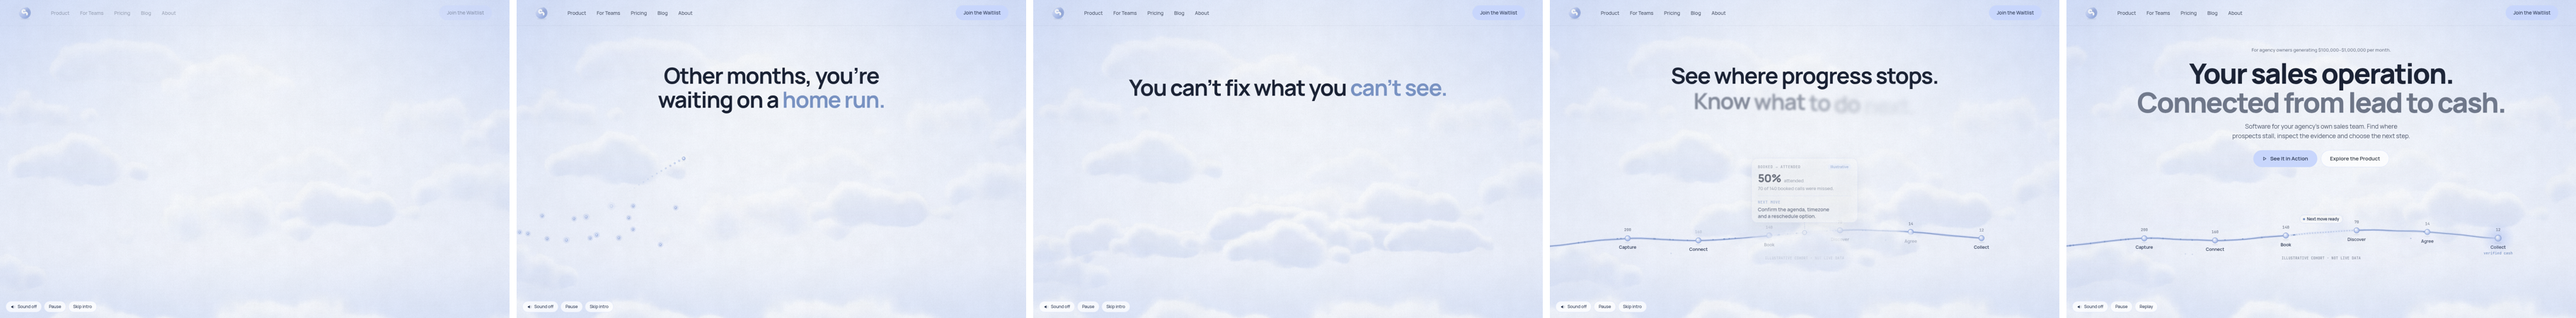
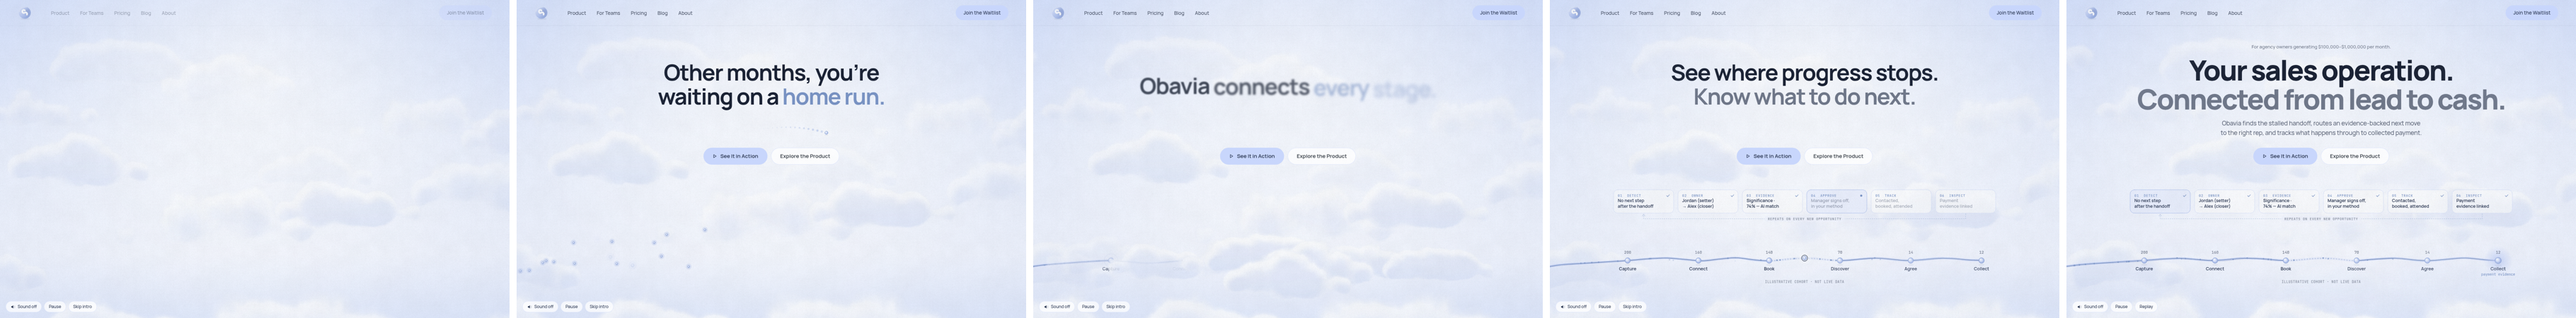
Rebuild hero around the recurring sales-execution loop
- Second half now shows the loop that justifies renewal: detect,
  owner, evidence (Significance 74% AI match), manager approval,
  track, inspect. One opportunity moves from the stalled handoff
  through to linked payment evidence; the loop repeats.
- CTAs visible from 1s: no video barrier before booking.
- Honest language: payment evidence is linked, not claimed as caused.
- Layout is a vertical grid (text, CTAs, loop, pipeline) that shrinks
  type to fit and grows/scrolls on very short screens.
- Story lines never overlap in time; stage labels and counts share rows.
- Overlap checker: zero collisions across the film at 5 viewport sizes.

Claude-Session: https://claude.ai/code/session_01WNCa4DicVSJvY6bbWM6F2z

diff --git a/obavia-co-hero/index.html b/obavia-co-hero/index.html
@@ -10,7 +10,8 @@
     --sans:'Manrope','Obavia Sans','Helvetica Neue',Arial,sans-serif;
     color-scheme:light;
   }
-  html,body{height:100%;margin:0;background:var(--sky);color:var(--navy);font-family:var(--sans);overflow:hidden}
+  html,body{margin:0;background:var(--sky);color:var(--navy);font-family:var(--sans)}
+  body{overflow-x:hidden}
   .stage{position:relative;height:100%;width:100%;overflow:hidden;background:var(--sky)}
   canvas#sky{position:absolute;inset:0;width:100%;height:100%;display:block}
   .sr{position:absolute;width:1px;height:1px;overflow:hidden;clip:rect(0 0 0 0);white-space:nowrap}
@@ -54,7 +55,7 @@
   <canvas id="sky" aria-hidden="true"></canvas>
 
   <h1 class="sr">Your sales operation. Connected from lead to cash.</h1>
-  <p class="sr">For agency owners generating $100,000 to $1,000,000 per month. Software for your agency's own sales team. Find where prospects stall, inspect the evidence and choose the next step.</p>
+  <p class="sr">For agency owners generating $100,000 to $1,000,000 per month. Obavia finds the stalled handoff, routes an evidence-backed next move to the right rep, and tracks what happens through to collected payment. The loop: detect, owner, evidence, approve, track, inspect. It repeats on every new opportunity.</p>
   <p class="sr" aria-live="polite" id="caption"></p>
 
   <nav id="nav" aria-label="Primary">
@@ -96,7 +97,7 @@
      t in [0, DUR]     the film
      t > DUR           the resolved hero, breathing
    ============================================================ */
-const DUR = 23;
+const DUR = 26.5;
 const FONT = "'Manrope','Obavia Sans','Helvetica Neue',Arial,sans-serif";
 const MONO = "'JetBrains Mono',ui-monospace,Menlo,monospace";
 const C = { ink:'#1C2436', navy:'#28344F', slate:'#737B8C', body:'#4B5468', deep:'#7D97C7', peri:'#C8D6FC', line:'#DCE4FA' };
@@ -188,6 +189,7 @@ const CL = (() => {
 })();
 
 /* ---------- layout ---------- */
+function REC(g,x,y,w,h,a){ if(window.__boxes && a>.35) window.__boxes.push({g,x,y,w,h}); }
 let W=0,H=0,DPR=1,L=null;
 function setLS(px){ if('letterSpacing' in ctx) ctx.letterSpacing = px.toFixed(2)+'px'; }
 function tokenize(str){
@@ -212,60 +214,106 @@ function block(str, o){
   const lh=o.fs*(o.lh||1.06);
   return Object.assign({lines, sp, lhpx:lh, h:lines.length*lh}, o);
 }
+const LOOP = [
+  ['Detect',  'No next step after the handoff'],
+  ['Owner',   'Jordan (setter) → Alex (closer)'],
+  ['Evidence','Significance · 74% — AI match'],
+  ['Approve', 'Manager signs off, in your method'],
+  ['Track',   'Contacted, booked, attended'],
+  ['Inspect', 'Payment evidence linked'],
+];
+const LT = k => 17.0 + k*.95;          // loop step k lights up
+const T_MOVE = LT(3)+.95, T_CASH = LT(5);
 function layout(){
-  const m = W<720;
+  const m = W<720, narrow = W<980;
   const navH = m?60:72;
-  const fs = clamp(Math.min(W*.062, H*.088), 34, 80);
   const maxW = Math.min(W-40, 1180);
-  const eyFs = m?11.5:13, subFs = clamp(W*.012,15,18.5);
-  const eyebrow = block('For agency owners generating $100,000–$1,000,000 per month.', {fs:eyFs, weight:500, ls:.1, maxW:Math.min(W-48,640), lh:1.5, color:C.slate, stagger:.012});
-  const h1a = block('Your sales operation.', {fs, weight:800, ls:-.045*fs, maxW, lh:1.04, color:C.ink, stagger:.07});
-  const h1b = block('Connected from lead to cash.', {fs, weight:800, ls:-.045*fs, maxW, lh:1.04, color:C.slate, stagger:.07});
-  const sub = block("Software for your agency’s own sales team. Find where prospects stall, inspect the evidence and choose the next step.", {fs:subFs, weight:400, ls:0, maxW:Math.min(W-48,560), lh:1.55, color:C.body, stagger:.018});
-  let y = navH + clamp(H*.07, 26, 90);
-  eyebrow.top=y; y+=eyebrow.h+(m?10:14);
-  h1a.top=y; y+=h1a.h; h1b.top=y; y+=h1b.h;
-  sub.top=y+(m?12:16); y=sub.top+sub.h;
-  const ctaY=y+22, ctaBottom=ctaY+48;
-  const pathY = Math.min(Math.max(ctaBottom+(m?120:130), H*.74), H-(m?104:100));
-  const storyCY = h1a.top + (h1a.h+h1b.h)/2;
+  const eyFs = m?11.5:13, subFs = clamp(W*.012,15,18.5), r0 = m?6:8;
+  let fs = clamp(Math.min(W*.062, H*.088), 30, 80), G;
+  for(let pass=0; pass<12; pass++){
+    const gap = clamp(H*.036, 16, 40);
+    const eyebrow = block('For agency owners generating $100,000–$1,000,000 per month.', {fs:eyFs, weight:500, ls:.1, maxW:Math.min(W-48,640), lh:1.5, color:C.slate, stagger:.012});
+    const h1a = block('Your sales operation.', {fs, weight:800, ls:-.045*fs, maxW, lh:1.04, color:C.ink, stagger:.07});
+    const h1b = block('Connected from lead to cash.', {fs, weight:800, ls:-.045*fs, maxW, lh:1.04, color:C.slate, stagger:.07});
+    const sub = block('Obavia finds the stalled handoff, routes an evidence-backed next move to the right rep, and tracks what happens through to collected payment.', {fs:subFs, weight:400, ls:0, maxW:Math.min(W-48,580), lh:1.55, color:C.body, stagger:.016});
+    const zoneTop = navH + clamp(H*.06, 18, 80);
+    let y = zoneTop;
+    eyebrow.top=y; y+=eyebrow.h+(m?10:14);
+    h1a.top=y; y+=h1a.h; h1b.top=y; y+=h1b.h;
+    sub.top=y+(m?12:16); y=sub.top+sub.h;
+    const zoneBot = y, ctaY = y+(m?20:24), ctaH = ctaEl.offsetHeight || (m?44:48), ctaBot = ctaY+ctaH;
 
-  const sfs = Math.max(28, fs*.8), sw = Math.min(W-40, 940);
+    // the loop strip
+    const cols = narrow?3:6, cg = narrow?8:12;
+    const gw = narrow ? Math.min(W-32,620) : Math.min(W-48,1080);
+    const cw = (gw-(cols-1)*cg)/cols, pad = m?10:12, ch = m?60:66;
+    const chips = LOOP.map(([lab,txt],k)=>{
+      let f = narrow?(m?11:12):12.5, b;
+      do { b = block(txt,{fs:f, weight:600, ls:0, maxW:cw-pad*2, lh:1.3, color:C.navy}); f-=.5; } while(b.lines.length>2 && f>9);
+      return {lab, b, k, w:cw, h:ch, pad};
+    });
+    const rows = narrow?2:1, capH = narrow?24:32;
+    const stripH = rows*ch+(rows-1)*cg+capH;
+
+    // the pipeline band: counts above, names + notes + caption below
+    const bandTop = r0+26, bandBot = r0+(m?50:60);
+    let stripTop = ctaBot+gap*1.1;
+    let pathY = stripTop+stripH+gap+bandTop;
+    const room = (H-64)-(pathY+bandBot);
+    if(room<0 && fs>30.5){ fs=Math.max(30,fs*.93); continue; }
+    if(room>0){ stripTop += room*.35; pathY += room*.7; }
+    chips.forEach((c,k)=>{
+      const col = k%cols, row = Math.floor(k/cols);
+      c.x = W/2-gw/2 + col*(cw+cg); c.y = stripTop + row*(ch+cg);
+    });
+    G = {needH: H-Math.min(0,room), m, narrow, navH, fs, eyebrow, h1a, h1b, sub, zoneTop, zoneBot, ctaY, ctaBot, chips, stripTop, stripH, capH, gw, pathY, r0};
+    break;
+  }
+  const {pathY} = G;
+  const storyCY = G.h1a.top + (G.h1a.h+G.h1b.h)/2;
+
+  const sfs = Math.max(26, G.fs*.8), sw = Math.min(W-40, 940);
   const S = (str,c,a,b) => block(str,{fs:sfs, weight:700, ls:-.035*sfs, maxW:sw, lh:1.08, color:c, stagger:.075, tIn:a, tOut:b});
+  // each line fully evaporates before the next arrives (exit ≈ .65s + .035s/word)
   const story = [
-    S("Some months, you’re fine.", C.ink, .3, 4.2),
-    S("Other months, you’re waiting on a *home run.*", C.ink, 4.5, 8.0),
-    S("You can’t fix what you *can’t see.*", C.ink, 8.4, 11.8),
-    S("Obavia connects *every stage.*", C.ink, 12.2, 15.9),
-    S("See where progress stops.", C.ink, 16.2, 19.9),
-    S("Know what to do next.", C.slate, 16.9, 19.9),
+    [S('Some months, you’re fine.', C.ink, .3, 3.9)],
+    [S('Other months, you’re waiting on a *home run.*', C.ink, 4.8, 8.2)],
+    [S('You can’t fix what you *can’t see.*', C.ink, 9.1, 12.0)],
+    [S('Obavia connects *every stage.*', C.ink, 12.9, 16.0)],
+    [S('See where progress stops.', C.ink, 16.8, 19.9), S('Know what to do next.', C.slate, 17.4, 19.9)],
+    [S('Then keep it moving.', C.ink, 20.8, 22.9), S('Every opportunity, every week.', C.slate, 21.3, 22.9)],
   ];
-  for(const b of story.slice(0,4)) b.top = storyCY - b.h/2;
-  const gh = story[4].h+story[5].h; story[4].top = storyCY-gh/2; story[5].top = story[4].top+story[4].h;
-  eyebrow.tIn=20.4; h1a.tIn=20.6; h1b.tIn=21.0; sub.tIn=21.6;
-  for(const b of [eyebrow,h1a,h1b,sub]) b.tOut=Infinity;
+  for(const grp of story){ // centred on the headline, never below the buttons
+    const h = grp.reduce((a,b)=>a+b.h,0);
+    let top = clamp(storyCY-h/2, G.zoneTop, G.ctaY-16-h);
+    for(const b of grp){ b.top=top; top+=b.h; }
+  }
+  G.eyebrow.tIn=23.8; G.h1a.tIn=24.0; G.h1b.tIn=24.35; G.sub.tIn=24.8;
+  for(const b of [G.eyebrow,G.h1a,G.h1b,G.sub]) b.tOut=Infinity;
 
-  // the thread: off-screen left, through six stations
-  const sp = Math.min((W-(m?92:120))/5.3, 200), amp = m?9:15, cx=W/2;
+  // stations sit on one baseline; the thread arcs up between them, clear of the labels
+  const sp = Math.min((W-(m?92:120))/5.3, 200), cx=W/2;
   const names = ['Capture','Connect','Book','Discover','Agree','Collect'];
   const counts = [200,160,140,70,14,12];
-  const st = names.map((n,i)=>({name:n, n:counts[i], x:cx+(i-2.5)*sp, y:pathY+Math.sin(i*1.25+.6)*amp}));
-  const ctrl = [{x:-80,y:pathY+40}, {x:st[0].x-sp*.9, y:pathY+26}, ...st, {x:st[5].x+sp, y:st[5].y}];
+  const st = names.map((n,i)=>({name:n, n:counts[i], x:cx+(i-2.5)*sp, y:pathY}));
+  const ctrl = [{x:-80,y:pathY+30}, {x:st[0].x-sp*.9, y:pathY+12}];
+  st.forEach((s,i)=>{ ctrl.push({x:s.x,y:s.y,st:i}); if(i<5) ctrl.push({x:s.x+sp/2, y:pathY-(m?5:7)}); });
+  ctrl.push({x:st[5].x+sp, y:pathY});
   const P={x:[],y:[],len:[],nx:[],ny:[],stS:[]};
   const cr=(p0,p1,p2,p3,k)=>.5*((2*p1)+(-p0+p2)*k+(2*p0-5*p1+4*p2-p3)*k*k+(-p0+3*p1-3*p2+p3)*k*k*k);
   for(let j=0;j<ctrl.length-2;j++){
     const p0=ctrl[Math.max(0,j-1)], p1=ctrl[j], p2=ctrl[j+1], p3=ctrl[Math.min(ctrl.length-1,j+2)];
-    if(j>=2) P.stS[j-2] = P.x.length; // sample index of station j-2
-    for(let s=0;s<36;s++){ const k=s/36; P.x.push(cr(p0.x,p1.x,p2.x,p3.x,k)); P.y.push(cr(p0.y,p1.y,p2.y,p3.y,k)); }
+    if(p1.st!=null) P.stS[p1.st]=P.x.length;
+    for(let s=0;s<24;s++){ const k=s/24; P.x.push(cr(p0.x,p1.x,p2.x,p3.x,k)); P.y.push(cr(p0.y,p1.y,p2.y,p3.y,k)); }
   }
   P.stS[5]=P.x.length; P.x.push(st[5].x); P.y.push(st[5].y);
   let acc=0; for(let i=0;i<P.x.length;i++){ if(i) acc+=Math.hypot(P.x[i]-P.x[i-1],P.y[i]-P.y[i-1]); P.len.push(acc); }
   for(let i=0;i<P.x.length;i++){ const a=Math.max(0,i-1), b=Math.min(P.x.length-1,i+1); const dx=P.x[b]-P.x[a], dy=P.y[b]-P.y[a], d=Math.hypot(dx,dy)||1; P.nx.push(-dy/d); P.ny.push(dx/d); }
   P.total=acc; P.stL=P.stS.map(i=>P.len[i]);
 
-  L = {m, navH, fs, eyebrow, h1a, h1b, sub, ctaY, pathY, storyCY, story, st, sp, P,
-       logo:{x:(m?16:Math.max(16,W/2-670))+(m?16:20), y:navH/2, r:m?14:17}};
-  ctaEl.style.top = ctaY+'px';
+  L = Object.assign(G, {storyCY, story:story.flat(), st, sp, P,
+       logo:{x:(G.m?16:Math.max(16,W/2-670))+(G.m?16:20), y:G.navH/2, r:G.m?14:17}});
+  ctaEl.style.top = G.ctaY+'px';
 }
 function pathAt(l){
   const P=L.P; l=clamp(l,0,P.total);
@@ -348,6 +396,7 @@ function drawBlock(b,t){
   let k=0;
   b.lines.forEach((ln,li)=>{
     let x=W/2-ln.w/2; const base=b.top+li*b.lhpx+b.fs*.86;
+    { const p=ramp(t,b.tIn,b.tIn+.8), o=b.tOut===Infinity?0:ramp(t,b.tOut,b.tOut+.65); REC('txt-'+b.lines[0].words[0].t+b.tIn, x, b.top+li*b.lhpx, ln.w, b.lhpx, p*(1-o)); }
     for(const wd of ln.words){
       const p=eo(ramp(t,b.tIn+k*b.stagger,b.tIn+k*b.stagger+.8));
       const o=b.tOut===Infinity?0:ss(0,1,ramp(t,b.tOut+k*.035,b.tOut+k*.035+.65));
@@ -471,8 +520,8 @@ function drawFlow(t){
     if(s>tip) continue;
     let x,y,a=.85*fin;
     if(s>dieL){
-      const f=(s-dieL)/(P.total*.14); if(f>=1) continue;
-      const q=pathAt(dieL); x=q.x+f*18; y=q.y+Math.pow(f,1.5)*64; a*=1-f;
+      const f=(s-dieL)/(P.total*.1); if(f>=1) continue;
+      const q=pathAt(dieL); x=q.x+f*10; y=q.y+Math.pow(f,1.2)*14; a*=(1-f)*(1-f);
       if(die===6) continue;
     } else { const q=pathAt(s); x=q.x; y=q.y; }
     ctx.globalAlpha=a; ctx.fillStyle=C.deep; ctx.beginPath(); ctx.arc(x,y,2.1,0,Math.PI*2); ctx.fill();
@@ -480,31 +529,34 @@ function drawFlow(t){
   ctx.globalAlpha=1;
 }
 function drawStations(t){
-  const m=L.m, r0=m?6:8;
+  const m=L.m, r0=L.r0;
   L.st.forEach((s,i)=>{
     const e=eo(ramp(t,TS(i)-.05,TS(i)+.5)); if(e<=0) return;
     const rip=ramp(t,TS(i),TS(i)+1.3);
     if(rip<1){ ctx.globalAlpha=(1-rip)*.45; ctx.strokeStyle=C.deep; ctx.lineWidth=1; ctx.beginPath(); ctx.arc(s.x,s.y,r0+rip*22,0,Math.PI*2); ctx.stroke(); ctx.globalAlpha=1; }
-    if(i===5){
-      const bloom=ramp(t,20.2,21.4);
-      if(bloom>0){ const R=44+Math.sin(t*.9)*3, g=ctx.createRadialGradient(s.x,s.y,0,s.x,s.y,R);
-        g.addColorStop(0,`rgba(200,214,252,${.85*bloom})`); g.addColorStop(1,'rgba(200,214,252,0)');
-        ctx.fillStyle=g; ctx.beginPath(); ctx.arc(s.x,s.y,R,0,Math.PI*2); ctx.fill(); }
-    }
-    orb(s.x,s.y,r0*(.5+.5*e)*(i===5?1+.15*ramp(t,20.2,21):1),e);
+    const bloom = i===5 ? ramp(t,T_CASH,T_CASH+1.1) : 0;
+    if(bloom>0){ const R=44+Math.sin(t*.9)*3, g=ctx.createRadialGradient(s.x,s.y,0,s.x,s.y,R);
+      g.addColorStop(0,`rgba(200,214,252,${.85*bloom})`); g.addColorStop(1,'rgba(200,214,252,0)');
+      ctx.fillStyle=g; ctx.beginPath(); ctx.arc(s.x,s.y,R,0,Math.PI*2); ctx.fill(); }
+    orb(s.x,s.y,r0*(.5+.5*e)*(1+.15*bloom),e);
     ctx.globalAlpha=e; ctx.textAlign='center'; ctx.fillStyle=C.navy;
-    ctx.font=`600 ${m?10.5:12.5}px ${FONT}`; setLS(0);
-    ctx.fillText(s.name, s.x, s.y+r0+(m?18:22));
-    if(i===5){ const v=ramp(t,20.5,21.3); ctx.globalAlpha=v; ctx.fillStyle=C.deep; ctx.font=`500 ${m?9:10.5}px ${MONO}`;
-      ctx.fillText('verified cash', s.x, s.y+r0+(m?31:38)); }
+    const nf=m?10.5:12.5; ctx.font=`600 ${nf}px ${FONT}`; setLS(0);
+    const ny=s.y+r0+(m?16:20); ctx.fillText(s.name, s.x, ny);
+    REC('st-'+i, s.x-ctx.measureText(s.name).width/2, ny-nf*.8, ctx.measureText(s.name).width, nf, e);
+    if(i===5){ const v=ramp(t,T_CASH+.15,T_CASH+.9); ctx.globalAlpha=v; ctx.fillStyle=C.deep; const f=m?9:10;
+      ctx.font=`500 ${f}px ${MONO}`; ctx.fillText('payment evidence', s.x, ny+(m?13:15));
+      REC('st-note', s.x-ctx.measureText('payment evidence').width/2, ny+(m?13:15)-f*.8, ctx.measureText('payment evidence').width, f, v); }
     const cn=ramp(t,16.3+i*.09,16.9+i*.09);
-    if(cn>0){ ctx.globalAlpha=cn*e; ctx.fillStyle=C.slate; ctx.font=`500 ${m?9.5:11}px ${MONO}`;
-      ctx.fillText(String(s.n), s.x, s.y-r0-(m?9:12)+(1-cn)*4); }
+    if(cn>0){ const f=m?9.5:11, cy=s.y-r0-(m?9:11); ctx.globalAlpha=cn*e; ctx.fillStyle=C.slate; ctx.font=`500 ${f}px ${MONO}`;
+      ctx.fillText(String(s.n), s.x, cy+(1-cn)*4);
+      REC('ct-'+i, s.x-ctx.measureText(String(s.n)).width/2, cy-f*.8, ctx.measureText(String(s.n)).width, f, cn*e); }
     ctx.globalAlpha=1;
   });
   const cap=ramp(t,16.6,17.4);
-  if(cap>0){ ctx.globalAlpha=cap*.9; ctx.fillStyle=C.slate; ctx.font=`500 ${m?9:10}px ${MONO}`; ctx.textAlign='center'; setLS(.4);
-    ctx.fillText('ILLUSTRATIVE COHORT · NOT LIVE DATA', W/2, L.pathY+(m?56:68)); setLS(0); ctx.globalAlpha=1; }
+  if(cap>0){ const f=m?9:10, cy=L.pathY+r0+(m?46:56), txt='ILLUSTRATIVE COHORT · NOT LIVE DATA';
+    ctx.globalAlpha=cap*.9; ctx.fillStyle=C.slate; ctx.font=`500 ${f}px ${MONO}`; ctx.textAlign='center'; setLS(.4);
+    ctx.fillText(txt, W/2, cy); REC('cohort', W/2-ctx.measureText(txt).width/2, cy-f*.8, ctx.measureText(txt).width, f, cap);
+    setLS(0); ctx.globalAlpha=1; }
 }
 function fogRow(t){
   const P=L.P, a0=ramp(t,8.2,9.8)*.85; if(a0<=0) return;
@@ -522,45 +574,60 @@ function stallBank(t){
     cloud(sprites[(i+2)%8], q.x+ox*L.sp+dx*part*L.sp*1.3+Math.sin(t*.25+i)*6, q.y+oy*L.sp+dy*part*30, w, a0*(1-part*.88));
   });
 }
-function drawCard(t){
-  const P=L.P, mid=(P.stL[2]+P.stL[3])/2, q=pathAt(mid), m=L.m;
-  const inA=eo(ramp(t,17.05,17.8)), out=ss(0,1,ramp(t,19.9,20.6)), a=inA*(1-out);
-  const pillA=ramp(t,20.4,21.2);
-  if(a>0){
-    const w=Math.min(300,W-32), pad=18, h=m?176:182;
-    const x=clamp(q.x-w/2,16,W-w-16), bot=q.y-(m?40:34), y=bot-h+(1-inA)*14-out*10;
-    ctx.save(); ctx.globalAlpha=a;
-    // pointer
-    ctx.strokeStyle='rgba(125,151,199,.8)'; ctx.lineWidth=1; ctx.setLineDash([2,3]);
-    ctx.beginPath(); ctx.moveTo(q.x,y+h); ctx.lineTo(q.x,q.y-9); ctx.stroke(); ctx.setLineDash([]);
-    ctx.beginPath(); ctx.arc(q.x,q.y,6,0,Math.PI*2); ctx.stroke();
-    ctx.shadowColor='rgba(40,52,79,.12)'; ctx.shadowBlur=34; ctx.shadowOffsetY=12;
-    rr(x,y,w,h,16); ctx.fillStyle='rgba(255,255,255,.94)'; ctx.fill();
-    ctx.shadowColor='transparent'; ctx.strokeStyle=C.line; ctx.stroke();
-    ctx.textAlign='left';
-    ctx.font=`500 10.5px ${MONO}`; setLS(.8); ctx.fillStyle=C.slate; ctx.fillText('BOOKED → ATTENDED', x+pad, y+pad+10);
-    setLS(0); ctx.font=`600 10px ${FONT}`; const tw=ctx.measureText('Illustrative').width+16;
-    rr(x+w-pad-tw,y+pad-2,tw,18,9); ctx.fillStyle='#EEF3FF'; ctx.fill(); ctx.fillStyle=C.deep; ctx.fillText('Illustrative', x+w-pad-tw+8, y+pad+10.5);
-    ctx.font=`800 32px ${FONT}`; setLS(-1.2); ctx.fillStyle=C.ink; ctx.fillText('50%', x+pad, y+pad+50);
-    const pw=ctx.measureText('50%').width; setLS(0);
-    ctx.font=`500 13px ${FONT}`; ctx.fillStyle=C.slate; ctx.fillText('attended', x+pad+pw+8, y+pad+50);
-    ctx.fillText('70 of 140 booked calls were missed.', x+pad, y+pad+72);
-    ctx.fillStyle=C.line; ctx.fillRect(x+pad,y+pad+88,w-pad*2,1);
-    ctx.font=`500 10.5px ${MONO}`; setLS(.8); ctx.fillStyle=C.deep; ctx.fillText('NEXT MOVE', x+pad, y+pad+110); setLS(0);
-    ctx.font=`600 14px ${FONT}`; ctx.fillStyle=C.navy;
-    const lines=['Confirm the agenda, timezone','and a reschedule option.'];
-    lines.forEach((s,i)=>ctx.fillText(s, x+pad, y+pad+132+i*19));
-    ctx.restore();
+function drawLoop(t){
+  const A=eo(ramp(t,16.5,17.1)); if(A<=0) return;
+  const hold=t>=DUR, cyc=hold?Math.floor((t-DUR)/1.6)%6:-1;
+  ctx.save(); ctx.textAlign='left';
+  for(const c of L.chips){
+    const k=c.k, on=ramp(t,LT(k),LT(k)+.45), next=k<5?LT(k+1):22.7;
+    const active = hold ? k===cyc : (t>=LT(k) && t<next);
+    const done = hold || t>=next;
+    const ca=eo(ramp(t,16.5+k*.05,17.1+k*.05)), y=c.y+(1-ca)*8;
+    ctx.globalAlpha=A*ca;
+    rr(c.x,y,c.w,c.h,12);
+    ctx.fillStyle = active ? 'rgba(238,243,255,.96)' : 'rgba(255,255,255,.8)'; ctx.fill();
+    ctx.strokeStyle = active ? '#AFC1EE' : C.line; ctx.lineWidth=1; ctx.stroke();
+    const lf=L.m?9:9.5, ly=y+c.pad+lf*.85;
+    ctx.font=`500 ${lf}px ${MONO}`; setLS(.9); ctx.fillStyle=C.deep;
+    const lab=String(k+1).padStart(2,'0')+'  '+c.lab.toUpperCase();
+    ctx.fillText(lab, c.x+c.pad, ly); setLS(0);
+    if(done || (on>0 && !active)){ // quiet check once the step is complete
+      ctx.globalAlpha=A*ca*(done?1:on); ctx.strokeStyle=C.deep; ctx.lineWidth=1.3; ctx.beginPath();
+      const cx=c.x+c.w-c.pad-8, cy=ly-3.5; ctx.moveTo(cx,cy); ctx.lineTo(cx+2.8,cy+2.8); ctx.lineTo(cx+8,cy-2.6); ctx.stroke();
+    } else if(active){
+      ctx.fillStyle=C.deep; ctx.beginPath(); ctx.arc(c.x+c.w-c.pad-4, ly-3.5, 3, 0, Math.PI*2); ctx.fill();
+    }
+    const b=c.b; ctx.globalAlpha=A*ca*lerp(.38,1,on);
+    ctx.font=`${b.weight} ${b.fs}px ${FONT}`; ctx.fillStyle=C.navy;
+    const ty=y+c.h-c.pad-(b.lines.length-1)*b.lhpx-b.fs*.22;
+    b.lines.forEach((ln,i)=>ctx.fillText(ln.words.map(w=>w.t).join(' '), c.x+c.pad, ty+i*b.lhpx));
+    REC('chip-'+k, c.x, y, c.w, c.h, A*ca);
   }
-  if(pillA>0){
-    ctx.save(); ctx.globalAlpha=pillA; ctx.font=`600 ${m?10.5:11.5}px ${FONT}`;
-    const label='Next move ready', tw=ctx.measureText(label).width+30, ph=m?22:24;
-    const x=clamp(q.x-tw/2,8,W-tw-8), y=q.y-(m?52:50)+(1-pillA)*6;
-    rr(x,y,tw,ph,ph/2); ctx.fillStyle='rgba(255,255,255,.9)'; ctx.fill(); ctx.strokeStyle=C.line; ctx.lineWidth=1; ctx.stroke();
-    ctx.fillStyle=C.deep; ctx.beginPath(); ctx.arc(x+12,y+ph/2,3,0,Math.PI*2); ctx.fill();
-    ctx.fillStyle=C.navy; ctx.textAlign='left'; ctx.fillText(label,x+20,y+ph/2+4);
-    ctx.restore();
+  // the loop closes: a return path back to step one
+  ctx.globalAlpha=A*.85; ctx.strokeStyle='rgba(125,151,199,.75)'; ctx.lineWidth=1; ctx.setLineDash([2,4]);
+  const f=L.m?9:9.5, txt='REPEATS ON EVERY NEW OPPORTUNITY';
+  ctx.font=`500 ${f}px ${MONO}`; setLS(.8); const tw=ctx.measureText(txt).width;
+  const last=L.chips[L.chips.length-1], first=L.chips[0];
+  const bot=L.stripTop+L.stripH-L.capH, ay=bot+(L.narrow?14:16);
+  if(!L.narrow){
+    const x1=last.x+last.w/2, x0=first.x+first.w/2;
+    ctx.beginPath(); ctx.moveTo(x1,bot+2); ctx.lineTo(x1,ay); ctx.lineTo(x0,ay); ctx.lineTo(x0,bot+4); ctx.stroke(); ctx.setLineDash([]);
+    ctx.beginPath(); ctx.moveTo(x0-3.5,bot+8); ctx.lineTo(x0,bot+3); ctx.lineTo(x0+3.5,bot+8); ctx.stroke();
+    rr(W/2-tw/2-10, ay-8, tw+20, 16, 8); ctx.fillStyle='rgba(244,247,255,.96)'; ctx.fill();
   }
+  ctx.setLineDash([]); ctx.fillStyle=C.slate; ctx.textAlign='center'; ctx.fillText(txt, W/2, ay+f*.35);
+  REC('loopcap', W/2-tw/2, ay-f*.5, tw, f, A);
+  setLS(0); ctx.restore();
+}
+// the one opportunity the loop carries: stuck, owned, then moved through to payment
+function drawOpportunity(t){
+  const P=L.P, a=ramp(t,16.9,17.4)*(1-ramp(t,T_CASH+.3,T_CASH+.9)); if(a<=0) return;
+  const mv=eio(ramp(t,T_MOVE,T_CASH)), l=lerp((P.stL[2]+P.stL[3])/2,P.total,mv), q=pathAt(l);
+  const g=ctx.createRadialGradient(q.x,q.y,0,q.x,q.y,24); g.addColorStop(0,`rgba(255,255,255,${.9*a})`); g.addColorStop(1,'rgba(255,255,255,0)');
+  ctx.fillStyle=g; ctx.beginPath(); ctx.arc(q.x,q.y,24,0,Math.PI*2); ctx.fill();
+  if(mv===0){ const p=frac((t-17)/1.5); ctx.globalAlpha=a*(1-p)*.5; ctx.strokeStyle=C.deep; ctx.lineWidth=1; ctx.beginPath(); ctx.arc(q.x,q.y,7+p*14,0,Math.PI*2); ctx.stroke(); }
+  ctx.globalAlpha=a; ctx.strokeStyle=C.navy; ctx.lineWidth=1.2; ctx.beginPath(); ctx.arc(q.x,q.y,8.5,0,Math.PI*2); ctx.stroke();
+  orb(q.x,q.y,5.5,a); ctx.globalAlpha=1;
 }
 function drawGrain(t){
   ctx.save(); ctx.globalCompositeOperation='multiply';
@@ -600,7 +667,8 @@ function render(t){
   stallBank(t);
   layer(CL.near,t,intro,1);
 
-  drawCard(t);
+  drawLoop(t);
+  drawOpportunity(t);
   for(const b of L.story) drawBlock(b,t);
   for(const b of [L.eyebrow,L.h1a,L.h1b,L.sub]) drawBlock(b,t);
 
@@ -617,7 +685,7 @@ function render(t){
   v.addColorStop(0,'rgba(168,188,236,0)'); v.addColorStop(1,'rgba(168,188,236,.16)');
   ctx.fillStyle=v; ctx.fillRect(0,0,W,H);
   drawGrain(t);
-  setDom(ramp(t,-.5,.6), eo(ramp(t,22,22.9)));
+  setDom(ramp(t,-.5,.6), eo(ramp(t,.6,1.6)));
 }
 
 /* ============================================================
@@ -666,8 +734,8 @@ const CUES=[
   [8.5, ()=>whoosh(2.8,.09,180,700)],
   ...NOTES.map((f,i)=>[TS(i), ()=>chime(f,.065)]),
   [16.6, ()=>whoosh(1.9,.15,240,1800)],
-  [17.15, ()=>chime(1567.98,.025)],
-  [20.25, ()=>{ pad([130.81,196,261.63,329.63,392,493.88],9,.02); chime(1046.5,.06); setTimeout(()=>SND.on&&chime(1567.98,.04),180); setTimeout(()=>SND.on&&chime(2093,.025),380); }],
+  ...[659.25,783.99,880,987.77,1174.66,1318.51].map((f,k)=>[LT(k), ()=>chime(f,.035)]),
+  [T_CASH+.05, ()=>{ pad([130.81,196,261.63,329.63,392,493.88],9,.02); chime(1046.5,.06); setTimeout(()=>SND.on&&chime(1567.98,.04),180); setTimeout(()=>SND.on&&chime(2093,.025),380); }],
 ];
 function fireCues(a,b){ if(!SND.on||b<=a||b-a>1) return; for(const [ct,fn] of CUES) if(ct>a&&ct<=b) fn(); }
 
@@ -680,14 +748,16 @@ if(hashF) frozen=DUR*Math.min(100,+hashF[1])/100;
 
 function resize(){
   DPR=Math.min(window.devicePixelRatio||1,1.75);
-  W=stage.clientWidth; H=stage.clientHeight;
-  cv.width=Math.round(W*DPR); cv.height=Math.round(H*DPR);
+  W=document.documentElement.clientWidth; H=innerHeight;
   layout();
+  for(let i=0;i<5 && L.needH>H+1;i++){ H=Math.ceil(L.needH); layout(); }   // too short: the hero grows and the page scrolls
+  stage.style.height=H+'px';
+  cv.width=Math.round(W*DPR); cv.height=Math.round(H*DPR);
 }
 const capEl=document.getElementById('caption'); let capLast='';
 function caption(tt){
   let s=''; for(const b of L.story) if(tt>=b.tIn&&tt<b.tOut) s=b.lines.map(l=>l.words.map(w=>w.t).join(' ')).join(' ');
-  if(tt>=20.6) s='Your sales operation. Connected from lead to cash.';
+  if(tt>=24.0) s='Your sales operation. Connected from lead to cash.';
   if(s!==capLast){ capLast=s; capEl.textContent=s; }
 }
 const bSkip=document.getElementById('bSkip');
